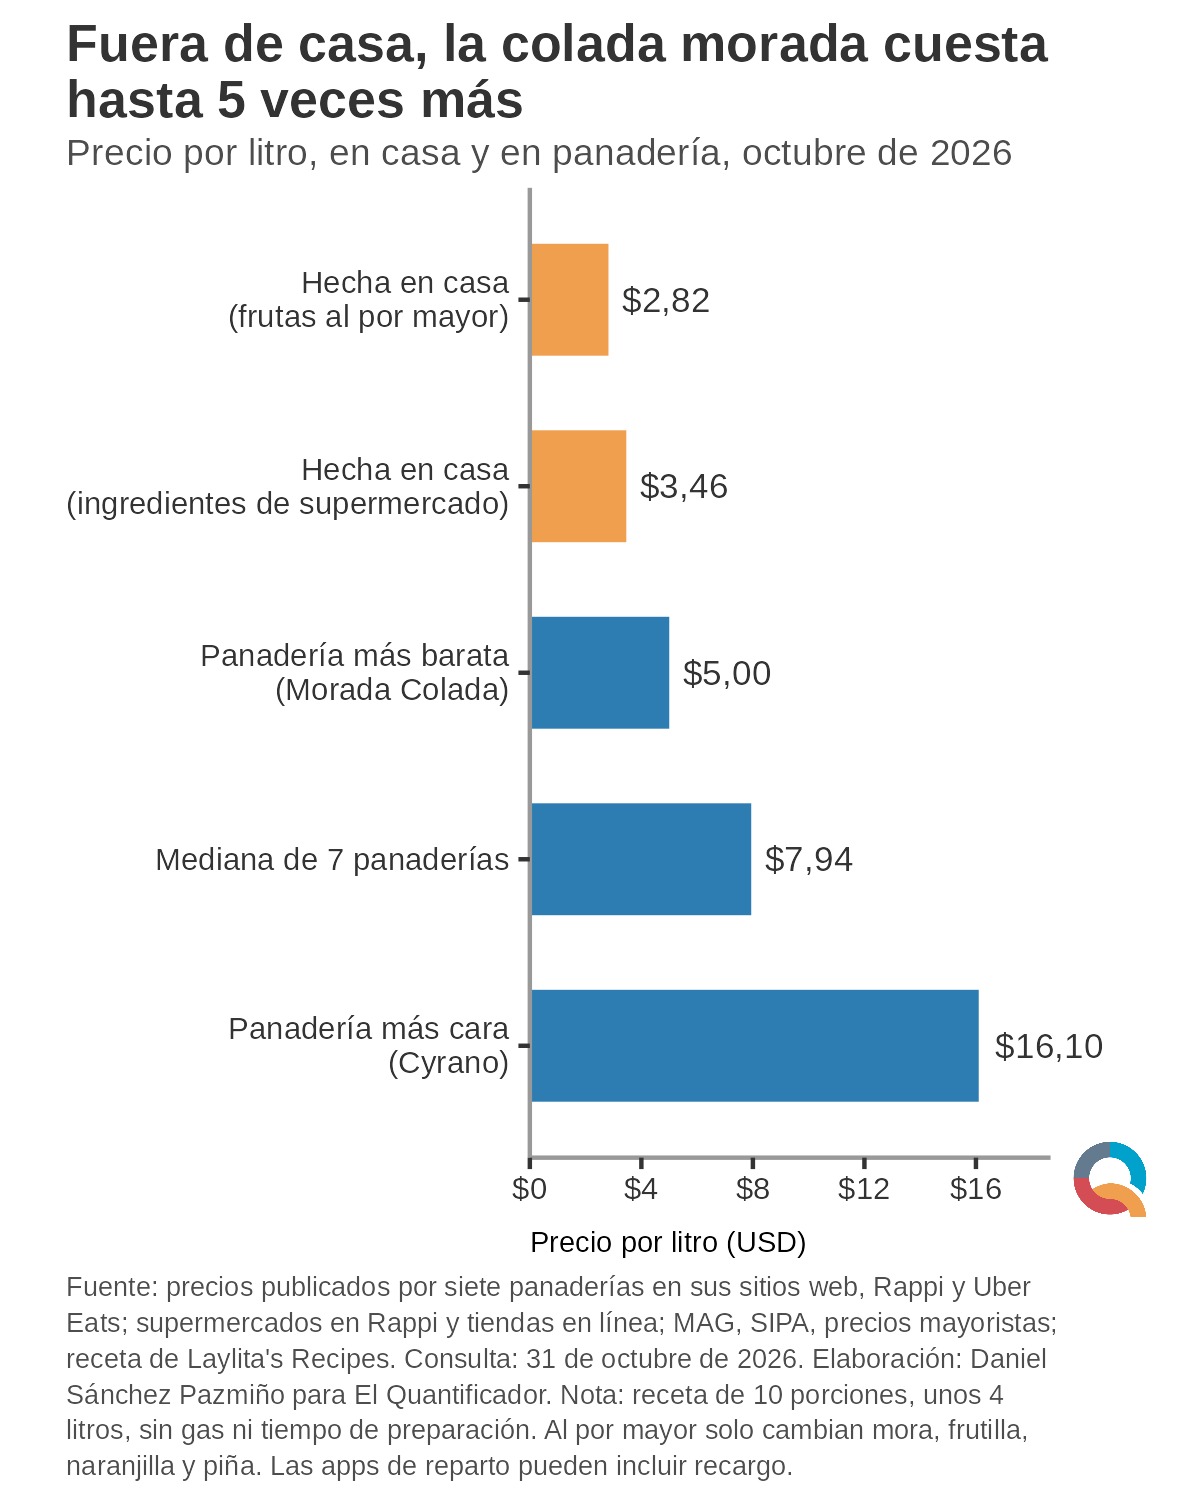
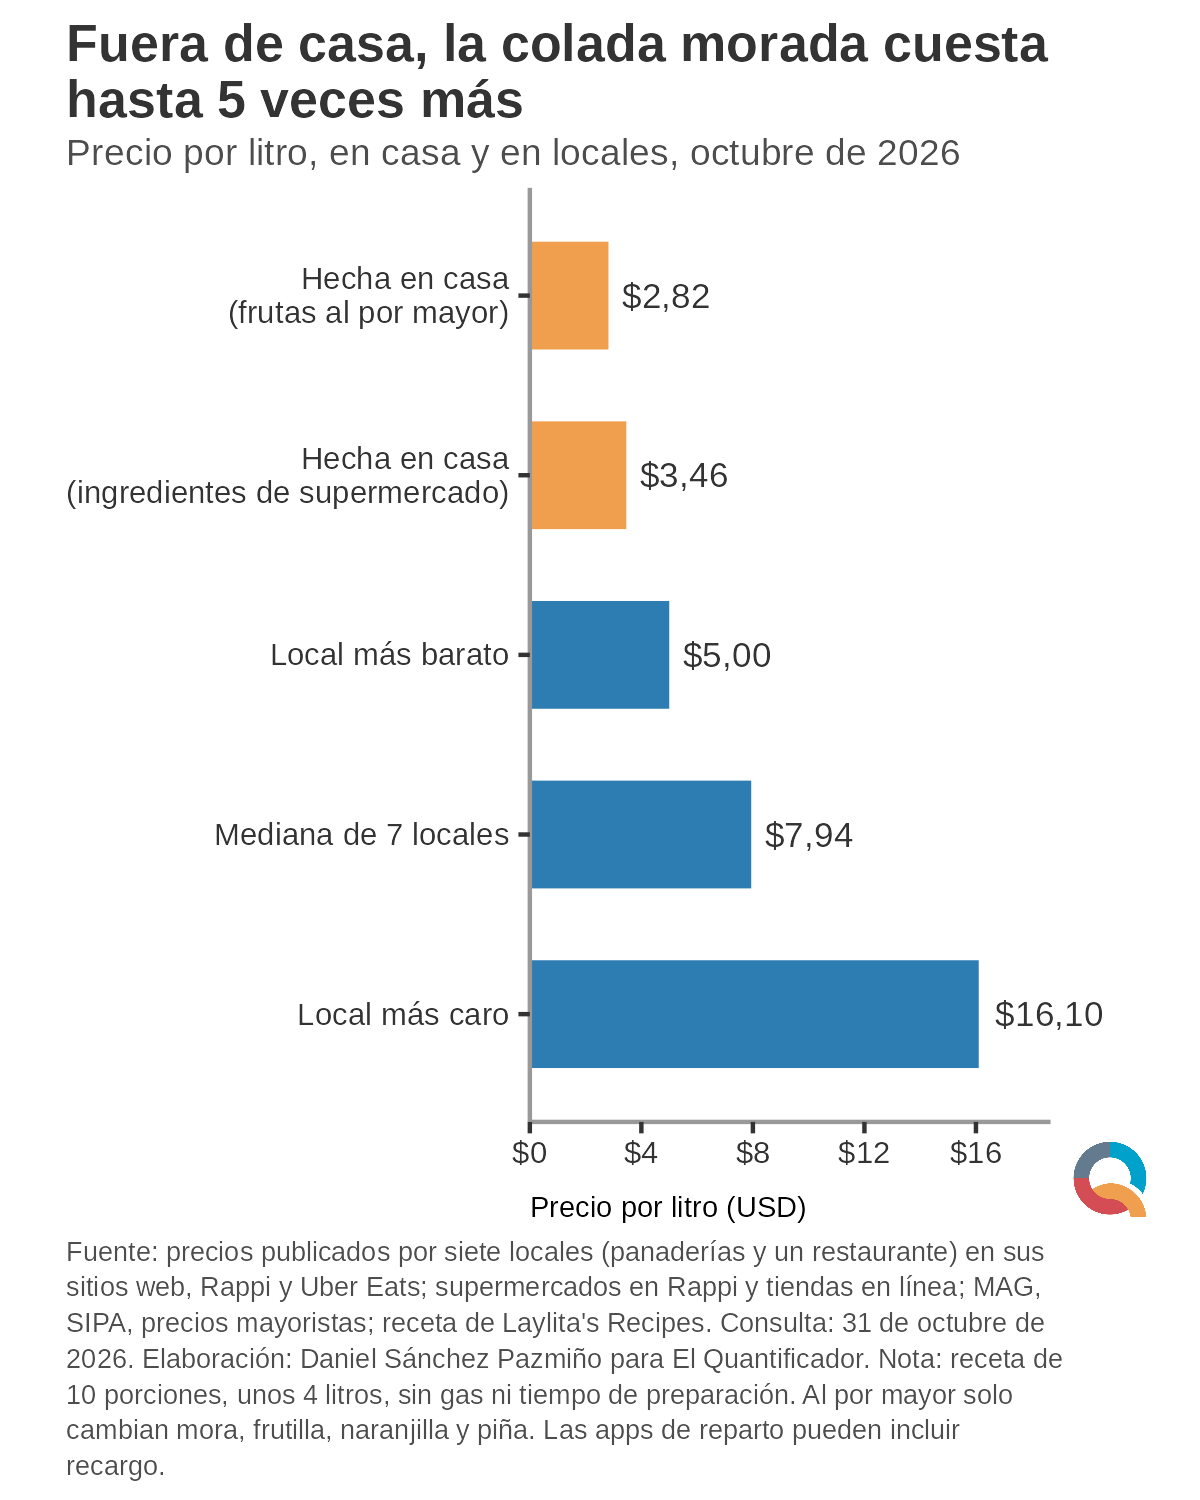
52_a: panaderías pasan a 'locales' y se quitan los nombres de las barras
Morada Colada es una marca de un restaurante, no una panadería; se agrupa
con las demás como 'locales' (seis panaderías y un restaurante).

Claude-Session: https://claude.ai/code/session_01MVqtYLyfFuBw18yHFufz3P

diff --git a/data/sources/colada_morada.md b/data/sources/colada_morada.md
@@ -4,7 +4,7 @@ Insumos de los gráficos 52_a y 52_b. Consulta: 31 de octubre de 2026.
 
 ## `costo_litro_colada_2026_10.csv` (gráfico 52_a)
 
-Costo por litro de colada morada hecha en casa y comprada en panadería.
+Costo por litro de colada morada hecha en casa y comprada en locales.
 
 **Hecha en casa.** Receta de Laylita's Recipes (10 porciones; se asume que rinde unos 4 litros: 12 tazas de agua, 14 oz de pulpa de naranjilla y la fruta).
 
@@ -23,11 +23,11 @@ Costo por litro de colada morada hecha en casa y comprada en panadería.
 - Frutas al por mayor: mora ($2,26/kg), frutilla ($1,83/kg), naranjilla híbrida ($1,05/kg; ~800 g de fruta para la pulpa) y piña ($0,44/kg; ~1,8 kg) con la mediana de precios mayoristas de octubre de 2026 del SIPA (MAG); el resto a precio de supermercado. Total $11,28, $2,82 por litro.
 - No incluye ishpingo, anís, hierbas, gas ni tiempo de preparación.
 
-**Panaderías** (precio de 1 litro publicado en sitio web o app de reparto):
+**Locales** (seis panaderías y un restaurante; precio de 1 litro publicado en sitio web o app de reparto):
 
-| Panadería | Canal | Precio por litro |
+| Local | Canal | Precio por litro |
 |---|---|---|
-| Morada Colada | moradacolada.com | $5,00 |
+| Morada Colada (marca del Restaurante Micasa) | moradacolada.com | $5,00 |
 | Guaguas Quito | guaguasquito.com | $5,25 |
 | San Honoré | sanhonore.com | $7,71 ($8,48 por 1,1 litros) |
 | Panificadora Ambato | Rappi | $7,94 |
@@ -35,7 +35,7 @@ Costo por litro de colada morada hecha en casa y comprada en panadería.
 | Panpe | Rappi | $9,99 |
 | Cyrano | Uber Eats | $16,10 |
 
-El gráfico muestra la más barata, la mediana y la más cara. Los precios en apps de reparto pueden incluir recargo.
+El gráfico muestra el más barato, la mediana y el más caro, sin nombres. Los precios en apps de reparto pueden incluir recargo.
 
 ## `sipa_precios_sep_oct_2025.csv` (gráfico 52_b)
 

diff --git a/README.md b/README.md
@@ -81,7 +81,7 @@ Los ultimos graficos publicados son:
 - `49_contribuciones-inflacion-ecuador.png`
 - `50_mercado-laboral-pobreza-ecuador.png` (indicadores de mercado laboral y pobreza, ENEMDU 2026)
 - `51_balance-energetico-ecuador.png` (balance de fuentes y destinos del BNEE de ARCONEL, agosto de 2025 a julio de 2026)
-- `52_a_colada-hacer-comprar-ecuador.png` (costo por litro de colada morada hecha en casa y comprada en panadería, octubre de 2026; en espera del enlace de LinkedIn)
+- `52_a_colada-hacer-comprar-ecuador.png` (costo por litro de colada morada hecha en casa y comprada en locales, octubre de 2026; en espera del enlace de LinkedIn)
 - `52_b_sipa-colada-difuntos-ecuador.png` (precio mayorista por libra de las frutas de la colada morada, septiembre y fin de octubre de 2025, SIPA; en espera del enlace de LinkedIn)
 
 En preparacion (borradores sin numero hasta su publicacion):
